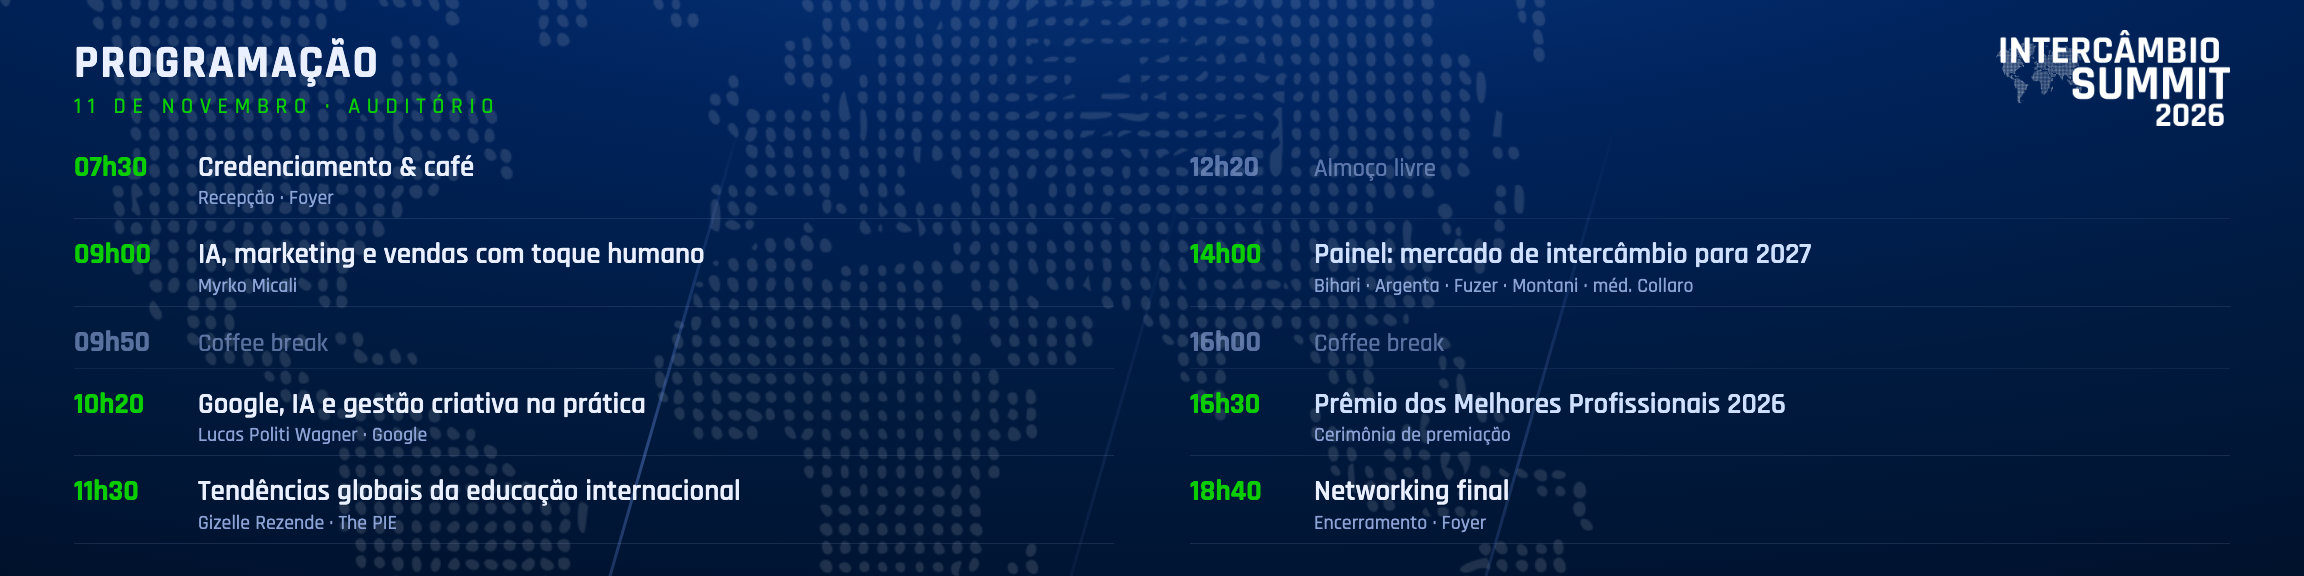
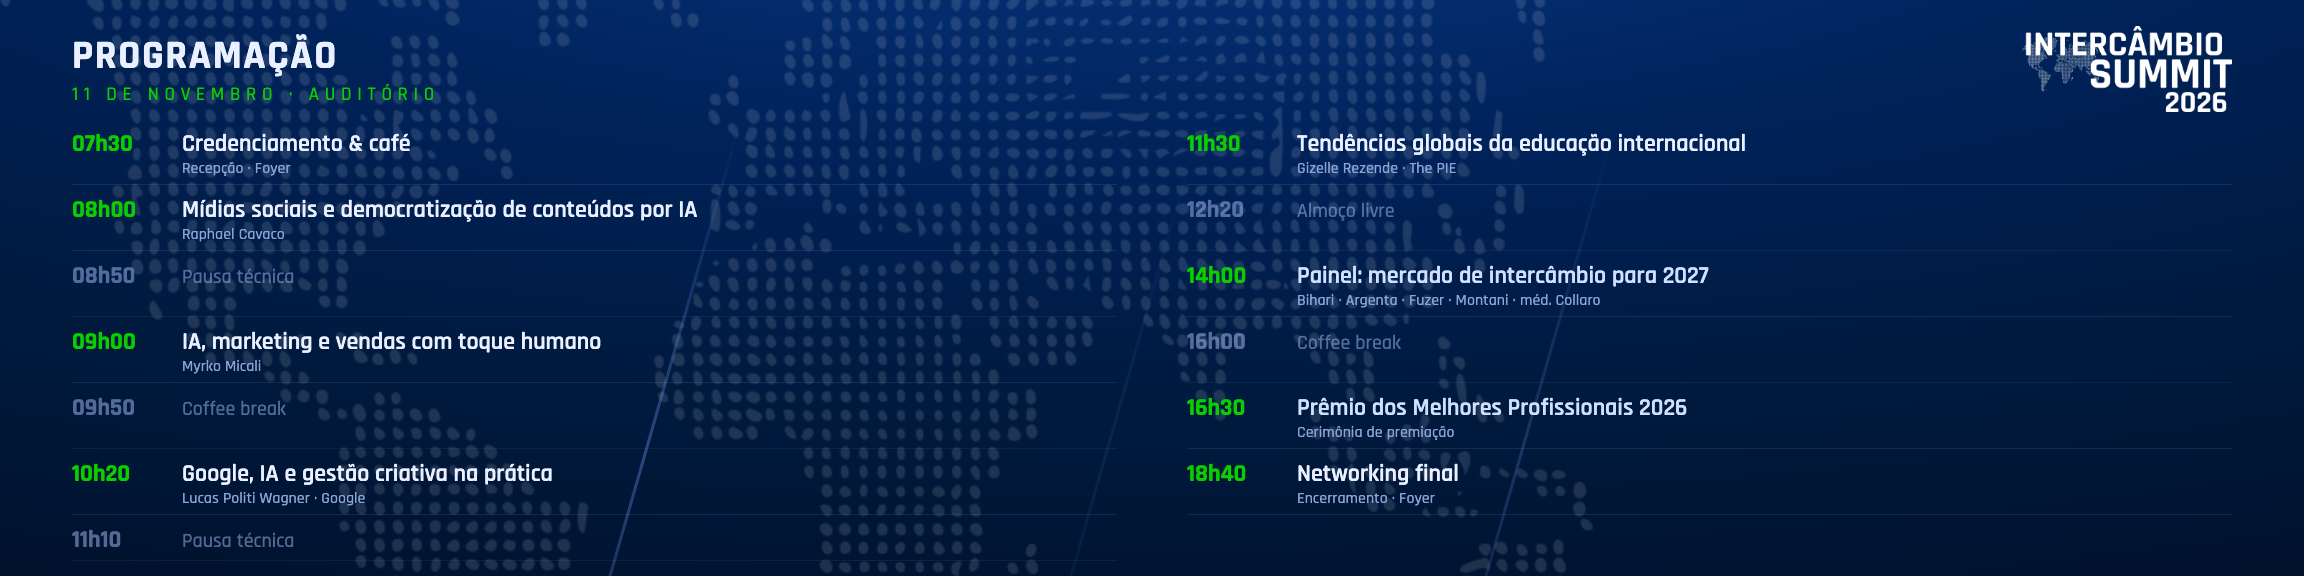
Atualiza cronograma do auditório com a programação nova
Inclui a palestra das 08h00 (Mídias sociais e democratização de conteúdos
por IA — Raphael Cavaco) e as pausas técnicas de 08h50 e 11h10, conforme
a programação atual. Grade reajustada para 7 linhas por coluna.

diff --git a/criativos/telao/auditorio/auditorio.html b/criativos/telao/auditorio/auditorio.html
@@ -78,21 +78,21 @@ html,body{width:2304px;height:576px;overflow:hidden;background:var(--deep)}
 .ab .meta{font-weight:500;font-size:30px;color:var(--dim);letter-spacing:.06em}
 .ab .meta b{color:var(--paper);font-weight:700}
 /* cronograma */
-.cr{align-items:stretch;padding:30px 74px 72px}
-.cr .head{display:flex;align-items:center;justify-content:space-between;margin-bottom:16px}
-.cr .head .t{font-weight:700;font-size:46px;text-transform:uppercase;letter-spacing:.04em}
-.cr .head .t small{display:block;font-weight:500;font-size:22px;color:var(--green);letter-spacing:.3em;text-transform:none}
-.cr .head img{width:234px}
-.cr .grid{display:grid;grid-template-columns:1fr 1fr;grid-template-rows:repeat(5,auto);
-  grid-auto-flow:column;gap:10px 76px;flex:1;align-content:start}
-.row{display:grid;grid-template-columns:102px 1fr;gap:22px;align-items:baseline;
-  padding:7px 0;border-bottom:1px solid rgba(140,163,214,.16)}
-.row .h{font-weight:700;font-size:29px;color:var(--green)}
-.row .ti{font-weight:600;font-size:29px;line-height:1.05}
-.row .wq{font-weight:500;font-size:20px;color:var(--dim);margin-top:2px}
-.row.pause{opacity:.64}
+.cr{align-items:stretch;padding:26px 72px 60px}
+.cr .head{display:flex;align-items:center;justify-content:space-between;margin-bottom:12px}
+.cr .head .t{font-weight:700;font-size:40px;text-transform:uppercase;letter-spacing:.04em}
+.cr .head .t small{display:block;font-weight:500;font-size:19px;color:var(--green);letter-spacing:.3em;text-transform:none}
+.cr .head img{width:210px}
+.cr .grid{display:grid;grid-template-columns:1fr 1fr;grid-template-rows:repeat(7,auto);
+  grid-auto-flow:column;gap:5px 70px;flex:1;align-content:start}
+.row{display:grid;grid-template-columns:92px 1fr;gap:18px;align-items:baseline;
+  padding:5px 0;border-bottom:1px solid rgba(140,163,214,.15)}
+.row .h{font-weight:700;font-size:24px;color:var(--green)}
+.row .ti{font-weight:600;font-size:24px;line-height:1.04}
+.row .wq{font-weight:500;font-size:16px;color:var(--dim);margin-top:1px}
+.row.pause{opacity:.6}
 .row.pause .h{color:var(--dim)}
-.row.pause .ti{font-weight:500;font-size:25px;color:var(--dim)}
+.row.pause .ti{font-weight:500;font-size:20px;color:var(--dim)}
 .row.hl .ti{color:#CFE0FF}
 /* painel principal (full) */
 .pn{align-items:center;justify-content:center;padding:36px 110px 120px}
@@ -176,9 +176,12 @@ const SPEAKERS={
 };
 const PROG=[
  {h:"07h30",ti:"Credenciamento & café",wq:"Recepção · Foyer"},
+ {h:"08h00",ti:"Mídias sociais e democratização de conteúdos por IA",wq:"Raphael Cavaco"},
+ {h:"08h50",ti:"Pausa técnica",pause:1},
  {h:"09h00",ti:"IA, marketing e vendas com toque humano",wq:"Myrko Micali"},
  {h:"09h50",ti:"Coffee break",pause:1},
  {h:"10h20",ti:"Google, IA e gestão criativa na prática",wq:"Lucas Politi Wagner · Google"},
+ {h:"11h10",ti:"Pausa técnica",pause:1},
  {h:"11h30",ti:"Tendências globais da educação internacional",wq:"Gizelle Rezende · The PIE"},
  {h:"12h20",ti:"Almoço livre",pause:1},
  {h:"14h00",ti:"Painel: mercado de intercâmbio para 2027",wq:"Bihari · Argenta · Fuzer · Montani · méd. Collaro",hl:1},
